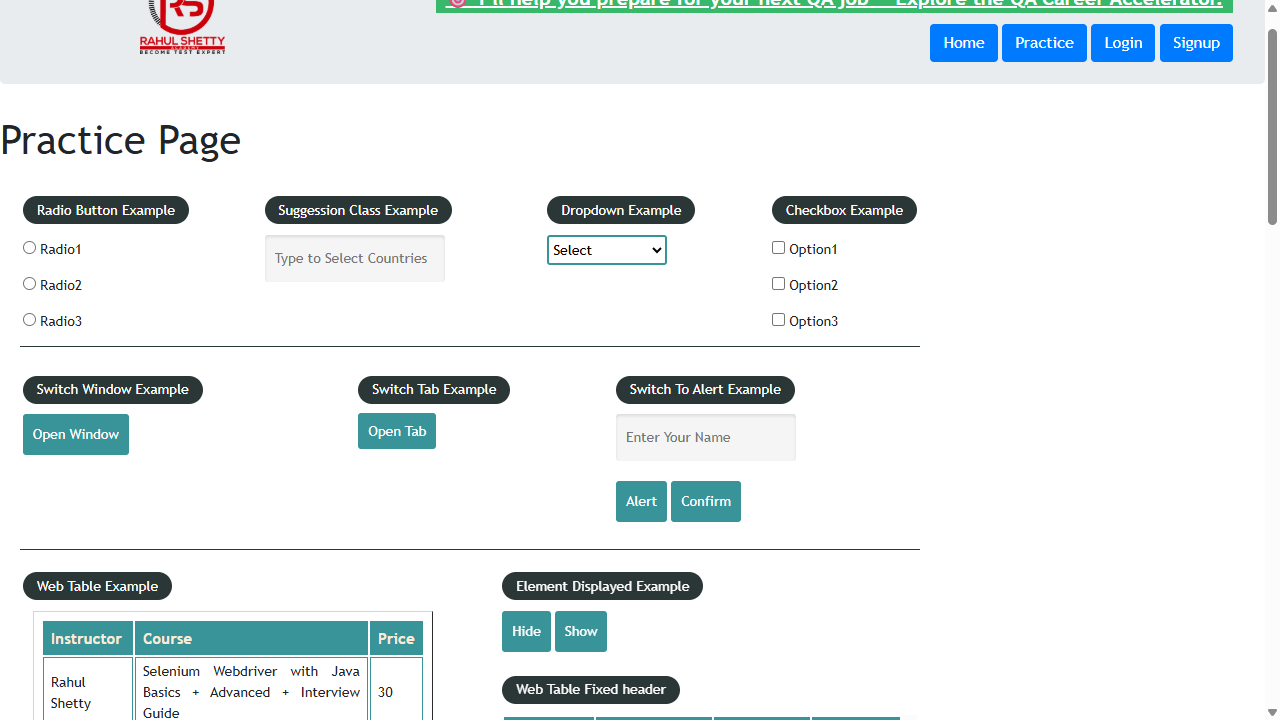
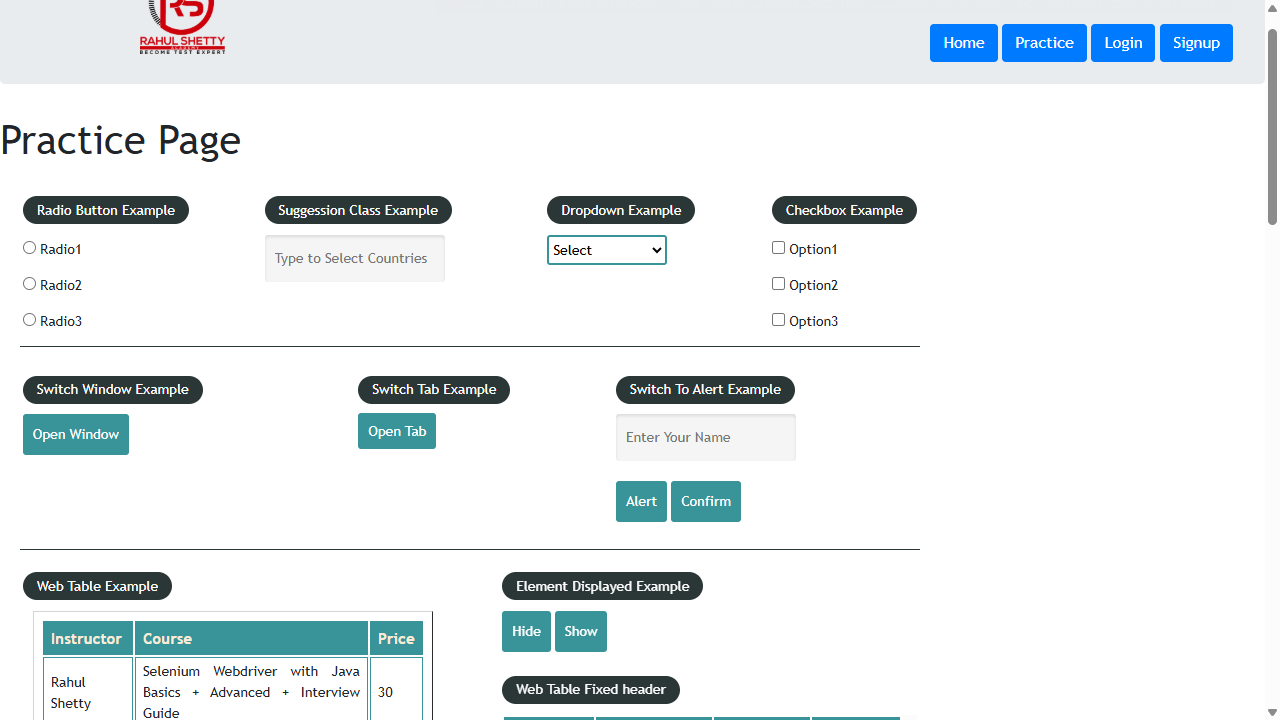
Se optimizo el tiempo de ejecucuin para pruebas

Changed region(s): [[0.3438, 0.0, 0.9688, 0.0306]]

diff --git a/playwright.config.js b/playwright.config.js
@@ -5,7 +5,7 @@ const { trace } = require('node:console');
 const config = {
   testDir: './tests',
   testMach: '**/*.spec.js',
-  retries: 0,
+  retries: 1,
 
   //Tiempo maximo de ejecucion de las pruebas
   //Tienpo predeterminado de las pruebas
